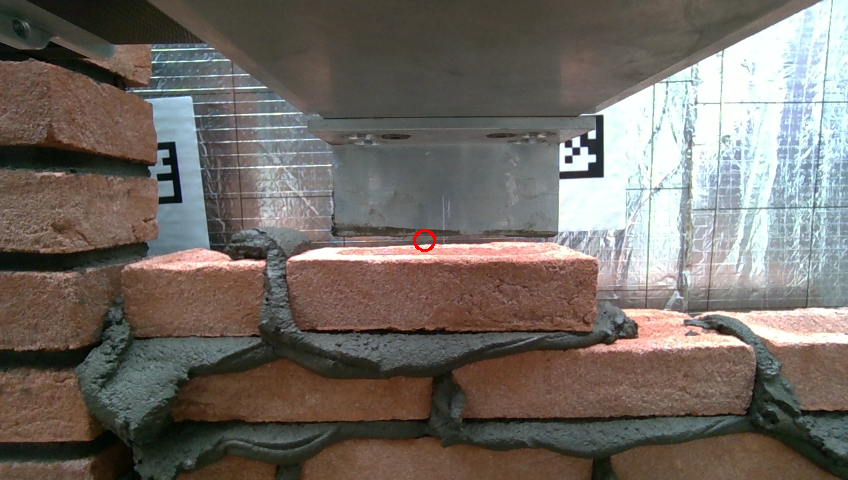
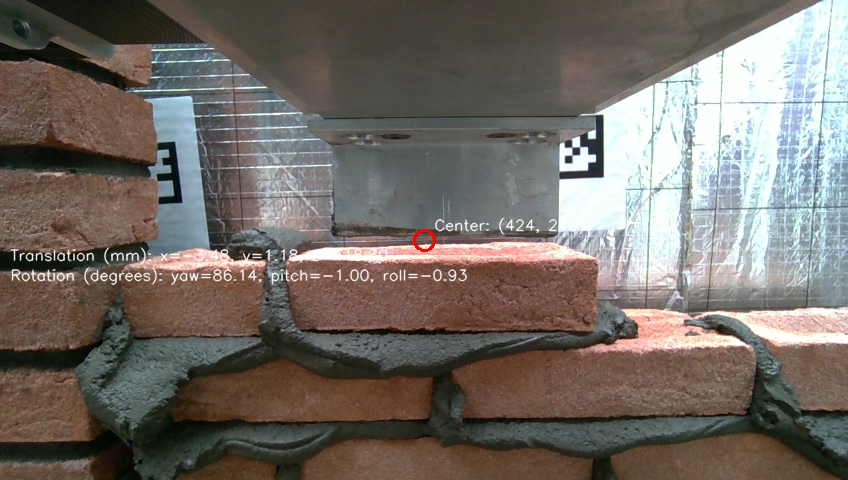
visualization

Changed region(s): [[0.0, 0.5, 0.5519, 0.5938], [0.5212, 0.4375, 0.6439, 0.5], [0.3986, 0.5, 0.4599, 0.5312]]

diff --git a/templates/result.html b/templates/result.html
@@ -147,6 +147,7 @@
                 <img src="{{ result.pose_visualization_path }}" alt="Estimated 3D Pose Visualization">
             </div>
             
+            
         {% endif %}
     </div>
     <div class="footer">

diff --git a/image_processing/image_processing.py b/image_processing/image_processing.py
@@ -4,6 +4,8 @@ import numpy as np
 import json
 from scipy.spatial.transform import Rotation as R
 from django.conf import settings
+from matplotlib import pyplot as plt
+from mpl_toolkits.mplot3d import Axes3D
 
 def load_images_and_camera_params(color_image_path, depth_image_path, camera_params_path):
     color_image = cv2.imread(color_image_path)
@@ -79,27 +81,6 @@ def draw_brick_boundaries(image, contour, center, translation, rotation):
     print("Drawing completed. Center coordinates:", center_coords)
     print("3D Pose Information:", pose_text)
 
-    # Visualization of the Estimated 3D Pose
-    # Draw translation vector as an arrow
-    origin = (int(center[0]), int(center[1]))
-    translation_vector = (int(center[0] + translation[0] * 10), int(center[1] - translation[1] * 10))
-    cv2.arrowedLine(image, origin, translation_vector, (255, 255, 0), 2, tipLength=0.3)
-
-    # Visualize rotation using small arrows
-    rotation_vectors = {
-        'yaw': (np.cos(np.radians(rotation['yaw'])), np.sin(np.radians(rotation['yaw']))),
-        'pitch': (np.cos(np.radians(rotation['pitch'])), np.sin(np.radians(rotation['pitch']))),
-        'roll': (np.cos(np.radians(rotation['roll'])), np.sin(np.radians(rotation['roll'])))
-    }
-
-    # Drawing the rotation vectors
-    for angle_name, vector in rotation_vectors.items():
-        end_point = (int(center[0] + vector[0] * 50), int(center[1] + vector[1] * 50))
-        cv2.arrowedLine(image, origin, end_point, (0, 255, 255), 2, tipLength=0.3)
-        cv2.putText(image, angle_name, end_point, cv2.FONT_HERSHEY_SIMPLEX, 0.5, (0, 255, 255), 1, cv2.LINE_AA)
-
-    print("3D Pose Visualization drawn on image.")
-
 def calculate_3d_pose(depth_image, camera_params):
     fx = camera_params['fx']
     fy = camera_params['fy']
@@ -141,6 +122,46 @@ def calculate_3d_pose(depth_image, camera_params):
     rotation_dict = {'yaw': rotation[0], 'pitch': rotation[1], 'roll': rotation[2]}
 
     return translation, rotation_dict
+def visualize_3d_pose(translation, rotation, save_path):
+    fig = plt.figure()
+    ax = fig.add_subplot(111, projection='3d')
+
+    # Plot the translation point
+    ax.scatter(translation[0], translation[1], translation[2], color='r', label='Translation')
+    ax.text(translation[0], translation[1], translation[2], 
+            f"({translation[0]:.2f}, {translation[1]:.2f}, {translation[2]:.2f})",
+            color='red', fontsize=10, ha='right')
+
+    # Plot the rotation vectors (Yaw, Pitch, Roll)
+    rotation_angles = [rotation['yaw'], rotation['pitch'], rotation['roll']]
+    labels = ['Yaw', 'Pitch', 'Roll']
+    colors = ['g', 'b', 'm']
+    length = 50  # Vector length scale
+
+    # Apply each rotation separately
+    yaw_vector = R.from_euler('z', rotation['yaw'], degrees=True).apply([1, 0, 0])
+    pitch_vector = R.from_euler('y', rotation['pitch'], degrees=True).apply([0, 1, 0])
+    roll_vector = R.from_euler('x', rotation['roll'], degrees=True).apply([0, 0, 1])
+
+    vectors = [yaw_vector, pitch_vector, roll_vector]
+
+    for vector, label, color, angle in zip(vectors, labels, colors, rotation_angles):
+        ax.quiver(translation[0], translation[1], translation[2], 
+                  vector[0], vector[1], vector[2], 
+                  color=color, length=length, normalize=True, label=f"{label} ({angle:.2f}°)")
+        end_point = translation + vector * length
+        ax.text(end_point[0], end_point[1], end_point[2], 
+                f"{label}: {angle:.2f}°", color=color, fontsize=10, ha='center')
+
+    # Set labels and title
+    ax.set_xlabel('X axis')
+    ax.set_ylabel('Y axis')
+    ax.set_zlabel('Z axis')
+    ax.legend()
+
+    plt.title('Estimated 3D Pose Visualization')
+    plt.savefig(save_path)
+    plt.close()
 def process_images_and_save_rgbd(folder_path):
     color_image_path = os.path.join(folder_path, 'color.png')
     depth_image_path = os.path.join(folder_path, 'depth.png')
@@ -182,25 +203,6 @@ def process_images_and_save_rgbd(folder_path):
         for i, line in enumerate(pose_text.split('\n')):
             cv2.putText(processed_image, line, (10, y_offset + i * 20), cv2.FONT_HERSHEY_SIMPLEX, 0.5, (255, 255, 255), 1, cv2.LINE_AA)
 
-        # Visualization of the Estimated 3D Pose
-        # Draw translation vector as an arrow
-        origin = (int(center[0]), int(center[1]))
-        translation_vector = (int(center[0] + translation[0] * 10), int(center[1] - translation[1] * 10))
-        cv2.arrowedLine(processed_image, origin, translation_vector, (255, 255, 0), 2, tipLength=0.3)
-
-        # Visualize rotation using small arrows
-        rotation_vectors = {
-            'yaw': (np.cos(np.radians(rotation['yaw'])), np.sin(np.radians(rotation['yaw']))),
-            'pitch': (np.cos(np.radians(rotation['pitch'])), np.sin(np.radians(rotation['pitch']))),
-            'roll': (np.cos(np.radians(rotation['roll'])), np.sin(np.radians(rotation['roll'])))
-        }
-
-        # Drawing the rotation vectors
-        for angle_name, vector in rotation_vectors.items():
-            end_point = (int(center[0] + vector[0] * 50), int(center[1] + vector[1] * 50))
-            cv2.arrowedLine(processed_image, origin, end_point, (0, 255, 255), 2, tipLength=0.3)
-            cv2.putText(processed_image, angle_name, end_point, cv2.FONT_HERSHEY_SIMPLEX, 0.5, (0, 255, 255), 1, cv2.LINE_AA)
-
     results_dir = os.path.join(settings.MEDIA_ROOT, 'results')
     os.makedirs(results_dir, exist_ok=True, mode=0o755)
     
@@ -211,7 +213,9 @@ def process_images_and_save_rgbd(folder_path):
     # Save images
     cv2.imwrite(rgbd_image_path, rgbd_image)
     cv2.imwrite(processed_image_path, processed_image)
-    cv2.imwrite(pose_visualization_path, processed_image)
+
+    # Visualize 3D Pose with Matplotlib
+    visualize_3d_pose(translation, rotation, pose_visualization_path)
 
     # Return the paths and pose information
     return rgbd_image_path, processed_image_path, pose_visualization_path, np.mean(rgbd_image), translation, rotation

diff --git a/brickpose/views.py b/brickpose/views.py
@@ -10,6 +10,7 @@ matplotlib.use('Agg')
 import matplotlib.pyplot as plt
 # Ensure you have the correct import path
 from image_processing.image_processing import process_images_and_save_rgbd,load_images_and_camera_params
+from mpl_toolkits.mplot3d import Axes3D
 
 import uuid
 
